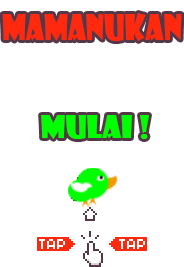
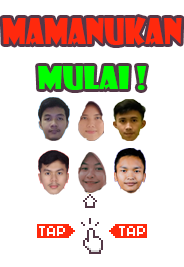
update main dan asset

diff --git a/main.py b/main.py
@@ -420,24 +420,42 @@ def pixel_gambar(rect1, rect2, hitmask1, hitmask2):
 # Method Asset Gambar & Audio
 def asset(folder):
     gambar, audio = {}, {}
-    warna_manuk = (
-        # manuk hijau
+    jenis_manuk = (
+        # manuk emir
         (
-            folder + 'gambar/manuk_hijau_1.png',
-            folder + 'gambar/manuk_hijau_2.png',
-            folder + 'gambar/manuk_hijau_3.png',
+            folder + 'gambar/manuk_emir.png',
+            folder + 'gambar/manuk_emir.png',
+            folder + 'gambar/manuk_emir.png',
         ),
-        # manuk hitam
+        # manuk fitra
         (
-            folder + 'gambar/manuk_hitam_1.png',
-            folder + 'gambar/manuk_hitam_2.png',
-            folder + 'gambar/manuk_hitam_3.png',
+            folder + 'gambar/manuk_fitra.png',
+            folder + 'gambar/manuk_fitra.png',
+            folder + 'gambar/manuk_fitra.png',
         ),
-        # manuk merah
+        # manuk haikal
         (
-            folder + 'gambar/manuk_merah_1.png',
-            folder + 'gambar/manuk_merah_2.png',
-            folder + 'gambar/manuk_merah_3.png',
+            folder + 'gambar/manuk_haikal.png',
+            folder + 'gambar/manuk_haikal.png',
+            folder + 'gambar/manuk_haikal.png',
+        ),
+        # manuk mery
+        (
+            folder + 'gambar/manuk_mery.png',
+            folder + 'gambar/manuk_mery.png',
+            folder + 'gambar/manuk_mery.png',
+        ),
+        # manuk pandu
+        (
+            folder + 'gambar/manuk_pandu.png',
+            folder + 'gambar/manuk_pandu.png',
+            folder + 'gambar/manuk_pandu.png',
+        ),
+        # manuk rahma
+        (
+            folder + 'gambar/manuk_rahma.png',
+            folder + 'gambar/manuk_rahma.png',
+            folder + 'gambar/manuk_rahma.png',
         ),
     )
 
@@ -449,8 +467,8 @@ def asset(folder):
 
     # warna pipa
     warna_pipa = (
-        folder + 'gambar/pipa_hijau.png',
-        folder + 'gambar/pipa_oren.png',
+        folder + 'gambar/pipa_merah.png',
+        folder + 'gambar/pipa_biru.png',
     )
 
     # skor
@@ -484,11 +502,11 @@ def asset(folder):
     gambar['background'] = pygame.image.load(warna_bg[indeks_bg]).convert()
 
     # gambar manuk
-    indeks_manuk = random.randint(0, len(warna_manuk) - 1)
+    indeks_manuk = random.randint(0, len(jenis_manuk) - 1)
     gambar['manuk'] = (
-        pygame.image.load(warna_manuk[indeks_manuk][0]).convert_alpha(),
-        pygame.image.load(warna_manuk[indeks_manuk][1]).convert_alpha(),
-        pygame.image.load(warna_manuk[indeks_manuk][2]).convert_alpha(),
+        pygame.image.load(jenis_manuk[indeks_manuk][0]).convert_alpha(),
+        pygame.image.load(jenis_manuk[indeks_manuk][1]).convert_alpha(),
+        pygame.image.load(jenis_manuk[indeks_manuk][2]).convert_alpha(),
     )
 
     # gambar pipa
